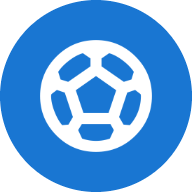
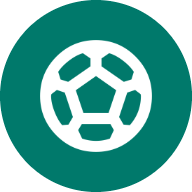
feat: auth

diff --git a/board/components/Auth.vue b/board/components/Auth.vue
@@ -1,25 +1,49 @@
 <template>
-  <v-container>
-    <v-card class="px-6 py-6 mx-auto rounded elevation-3" max-width="344">
+  <AuthCard>
+    <div class="d-flex justify-space-between">
+      <h4>{{ props.authMode === 'signup' ? 'Resister Account' : 'Sign in' }}</h4>
+      <v-btn append-icon="mdi-chevron-right" variant="text" size="small" color="teal-darken-2"
+        :to="props.authMode === 'signup' ? '/account/signin' : '/account/signup'" nuxt>
+        {{ props.authMode === 'signup' ? 'Sign in?' : 'Sign up?' }}
+      </v-btn>
+    </div>
+
+    <v-card v-show="message" class="mt-3" color="error" variant="tonal">
+      <v-card-text class="text-caption">
+        {{ message }}
+      </v-card-text>
+    </v-card>
+
+    <v-form ref="form" @submit.prevent="submit">
+      <div class="mt-3 text-subtitle-1 text-medium-emphasis">Account</div>
+      <v-text-field autocomplete="email" v-model="email" :rules="emailRules" density="compact"
+        placeholder="Email address" prepend-inner-icon="mdi-email-outline" variant="outlined" />
+
       <div class="d-flex justify-space-between align-center">
-        <h3>{{ mode === 'signup' ? 'Sign up' : 'Sign in' }}</h3>
-        <v-btn variant="plain" size="small" :to="mode === 'signup' ? '/account/signin' : '/account/signup'" nuxt>
-          {{ mode === 'signup' ? 'Sign in?' : 'Sign up?' }}
-        </v-btn>
+        <div class="text-subtitle-1 text-medium-emphasis">Password</div>
+        <NuxtLink v-if="props.authMode === 'signin'" class="text-caption text-decoration-none text-teal-darken-2"
+          :to="'/account/forgot-password'">
+          Forgot sign in password?
+        </NuxtLink>
+      </div>
+      <v-text-field :autocomplete="props.authMode === 'signup' ? 'new-password' : 'current-password'" v-model="password"
+        :rules="passwordRules" :append-inner-icon="showPassword ? 'mdi-eye-off' : 'mdi-eye'"
+        :type="showPassword ? 'text' : 'password'" density="compact" placeholder="Enter your password"
+        prepend-inner-icon="mdi-lock-outline" variant="outlined" @click:append-inner="showPassword = !showPassword" />
+
+      <div v-if="props.authMode === 'signup'">
+        <div class="text-subtitle-1 text-medium-emphasis">Password (Confirm)</div>
+        <v-text-field autocomplete="new-password" v-model="passwordConfirm" :rules="passwordRules"
+          :append-inner-icon="showPassword ? 'mdi-eye-off' : 'mdi-eye'" :type="showPassword ? 'text' : 'password'"
+          density="compact" placeholder="Enter your password (confirm)" prepend-inner-icon="mdi-lock-outline"
+          variant="outlined" @click:append-inner="showPassword = !showPassword" />
       </div>
 
-      <p class="mt-2 mb-4 font-weight-light">Enter your name and email</p>
-      <v-form ref="form">
-        <v-text-field density="compact" v-model="email" variant="outlined" hide-details
-          :rules="[v => !!v || 'email is required']" label="Email" />
-        <v-btn class="mt-3" color="blue-darken-2" type="submit" block :disabled="loading" @click="validate">
-          Submit
-        </v-btn>
-      </v-form>
-    </v-card>
-  </v-container>
-
-  <v-snackbar-queue v-model="messages" color="error"></v-snackbar-queue>
+      <v-btn class="mt-8" color="teal-darken-2" size="large" block :loading="loading" type="submit">
+        {{ props.authMode === 'signup' ? 'Sign up' : 'Sign in' }}
+      </v-btn>
+    </v-form>
+  </AuthCard>
 </template>
 
 <script setup lang="ts">
@@ -28,51 +52,65 @@ import type { AuthMode } from '~/types/base';
 const { $supabase } = useNuxtApp()
 
 type Props = {
-  initAuthMode: AuthMode,
+  authMode: AuthMode,
 }
 const props = defineProps<Props>();
 
-const mode = ref<AuthMode>(props.initAuthMode)
 const form = ref()
 const loading = ref(false)
 const email = ref('')
-const messages = ref<string[]>([])
+const showPassword = ref(false)
+const password = ref("")
+const passwordConfirm = ref('')
+const message = ref<string>('')
+const emailRules = [
+  (v: string) => !!v || 'Email is required',
+]
+const passwordRules = [
+  (v: string) => (v && v.length >= 6) || 'Password must be 6 characters or more',
+]
 
-const validate = async () => {
+const submit = async () => {
   const { valid } = await form.value.validate()
   if (!valid) {
     return;
   }
 
-  if (mode.value === 'signup') {
+  if (props.authMode === 'signup' && password.value != passwordConfirm.value) {
+    message.value = 'password mismatch'
+    return;
+  }
+
+  loading.value = true
+  if (props.authMode === 'signup') {
     await signUp()
   } else {
     await signIn()
   }
+  loading.value = false
 }
 
 const signUp = async () => {
-  loading.value = true
-  const { data, error } = await $supabase.auth.signUp({
-    email: 'example@email.com',
-    password: 'example-password',
+  const { error } = await $supabase.auth.signUp({
+    email: email.value,
+    password: password.value,
   })
   if (error) {
-    messages.value.push('Sign up failed')
+    message.value = 'Sign up failed'
+  } else {
+    navigateTo('/account/check-email')
   }
-  loading.value = false
 }
 
 const signIn = async () => {
-  loading.value = true
-  const { data, error } = await $supabase.auth.signInWithPassword({
-    email: 'example@email.com',
-    password: 'example-password',
+  const { error } = await $supabase.auth.signInWithPassword({
+    email: email.value,
+    password: password.value,
   })
   if (error) {
-    messages.value.push('Sign in failed')
+    message.value = 'Sign in failed'
+  } else {
+    navigateTo('/account')
   }
-  loading.value = false
 }
-
 </script>

diff --git a/board/components/Account.vue b/board/components/Account.vue
@@ -1,27 +1,26 @@
 <template>
-  <form class="form-widget" @submit.prevent="updateProfile">
-    <div>
-      <label for="email">Email</label>
-      <input id="email" type="text" :value="user.email" disabled />
-    </div>
-    <div>
-      <label for="username">Username</label>
-      <input id="username" type="text" v-model="username" />
-    </div>
-    <div>
-      <label for="website">Website</label>
-      <input id="website" type="url" v-model="website" />
-    </div>
+  <v-container>
+    <v-card v-if="user" class="pa-6 mx-auto" max-width="448" rounded="lg">
+      <h4>Account</h4>
+      <div class="mt-3 text-caption text-medium-emphasis">Email</div>
+      <v-text-field autocomplete="email" hide-details v-model="user.email" density="compact" disabled
+        variant="outlined" />
 
-    <div>
-      <input type="submit" class="button primary block" :value="loading ? 'Loading ...' : 'Update'"
-        :disabled="loading" />
-    </div>
+      <div class="mt-3 text-caption text-medium-emphasis">User Name</div>
+      <v-text-field autocomplete="name" v-model="username" density="compact" variant="outlined" />
+      <v-btn color="teal-darken-2" :loading="loading" @click="updateProfile">Update Profile</v-btn>
+    </v-card>
 
-    <div>
-      <button class="button block" @click="signOut" :disabled="loading">Sign Out</button>
-    </div>
-  </form>
+    <!-- <v-card class="mx-auto mt-8 pa-6" max-width="448" rounded="lg">
+      <h4 class="mt-3">Your teams</h4>
+    </v-card> -->
+
+    <v-card class="mx-auto mt-8 pa-6" max-width="448" rounded="lg">
+      <h4 class="my-3">Other Actions</h4>
+      <v-btn color="teal-darken-2" variant="outlined" @click="signOut">Sign Out</v-btn>
+      <v-btn color="error" variant="outlined" class="ms-3">Delete Account</v-btn>
+    </v-card>
+  </v-container>
 </template>
 
 <script setup lang="ts">
@@ -29,9 +28,8 @@ import type { User } from '@supabase/supabase-js'
 const { $supabase } = useNuxtApp()
 
 const user = ref<User | null>(null)
-const loading = ref(true)
+const loading = ref(false)
 const username = ref('')
-const website = ref('')
 const avatar_path = ref('')
 
 onMounted(async () => {
@@ -54,13 +52,12 @@ const getUser = async () => {
 const fetchUser = async (userId: string) => {
   const { data } = await $supabase
     .from('profiles')
-    .select(`username, website, avatar_url`)
+    .select(`username, avatar_url`)
     .eq('id', userId)
     .single()
 
   if (data) {
     username.value = data.username
-    website.value = data.website
     avatar_path.value = data.avatar_url
   }
 }
@@ -78,7 +75,7 @@ const updateProfile = async () => {
       updated_at: new Date(),
     }
 
-    const { error } = await supabase.from('profiles').upsert(updates, {
+    const { error } = await $supabase.from('profiles').upsert(updates, {
       returning: 'minimal', // Don't return the value after inserting
     })
     if (error) throw error
@@ -93,8 +90,12 @@ const signOut = async () => {
   try {
     loading.value = true
     const { error } = await $supabase.auth.signOut()
-    if (error) throw error
-    user.value = null
+    if (error) {
+      throw error
+    } else {
+      user.value = null
+      navigateTo('/account/signin')
+    }
   } catch (error: any) {
     alert(error.message)
   } finally {

diff --git a/board/pages/account/check-email.vue b/board/pages/account/check-email.vue
@@ -1,0 +1,15 @@
+<template>
+  <AuthCard>
+    <v-card class="mt-3" color="surface-variant" variant="tonal">
+      <v-card-text class="text-caption">
+        A confirmation email has been sent, please check it.
+      </v-card-text>
+    </v-card>
+  </AuthCard>
+</template>
+
+<script setup lang="ts">
+definePageMeta({
+  layout: 'default'
+})
+</script>

diff --git a/board/components/MatchResultIcon.vue b/board/components/MatchResultIcon.vue
@@ -2,7 +2,7 @@
   <v-chip v-show="props.result === 'win'" color="success" size="small">
     Win
   </v-chip>
-  <v-chip v-show="props.result === 'lose'" color="pink" size="small">
+  <v-chip v-show="props.result === 'lose'" color="error" size="small">
     Lose
   </v-chip>
   <v-chip v-show="props.result === 'draw'" size="small">

diff --git a/board/components/GamesTab.vue b/board/components/GamesTab.vue
@@ -5,7 +5,7 @@
         <h2>
           Games
         </h2>
-        <v-btn prepend-icon="mdi-plus" color="blue-darken-2">
+        <v-btn prepend-icon="mdi-plus" color="teal-darken-2">
           New Game
         </v-btn>
       </div>

diff --git a/board/components/Teams.vue b/board/components/Teams.vue
@@ -4,7 +4,7 @@
       <h2>
         Teams
       </h2>
-      <v-btn prepend-icon="mdi-plus" color="blue-darken-2">
+      <v-btn prepend-icon="mdi-plus" color="teal-darken-2">
         New Team
       </v-btn>
     </div>

diff --git a/board/components/Banner.vue b/board/components/Banner.vue
@@ -1,6 +1,6 @@
 <template>
   <div class="banner">
-    <h1 class="banner-title text-blue-darken-2">FootBoard</h1>
+    <h1 class="banner-title text-high-emphasis">FootBoard</h1>
   </div>
 </template>
 

diff --git a/board/components/AuthCard.vue b/board/components/AuthCard.vue
@@ -1,0 +1,7 @@
+<template>
+  <v-container>
+    <v-card class="mx-auto pa-8" elevation="8" max-width="448" rounded="lg">
+      <slot></slot>
+    </v-card>
+  </v-container>
+</template>

diff --git a/board/pages/account/signin.vue b/board/pages/account/signin.vue
@@ -1,5 +1,5 @@
 <template>
-  <Auth :init-auth-mode="'signin'" />
+  <Auth :auth-mode="'signin'" />
 </template>
 
 <script setup lang="ts">

diff --git a/board/pages/account/forgot-password.vue b/board/pages/account/forgot-password.vue
@@ -1,5 +1,5 @@
 <template>
-  <Auth :auth-mode="'signup'" />
+  This is forgot page.
 </template>
 
 <script setup lang="ts">
